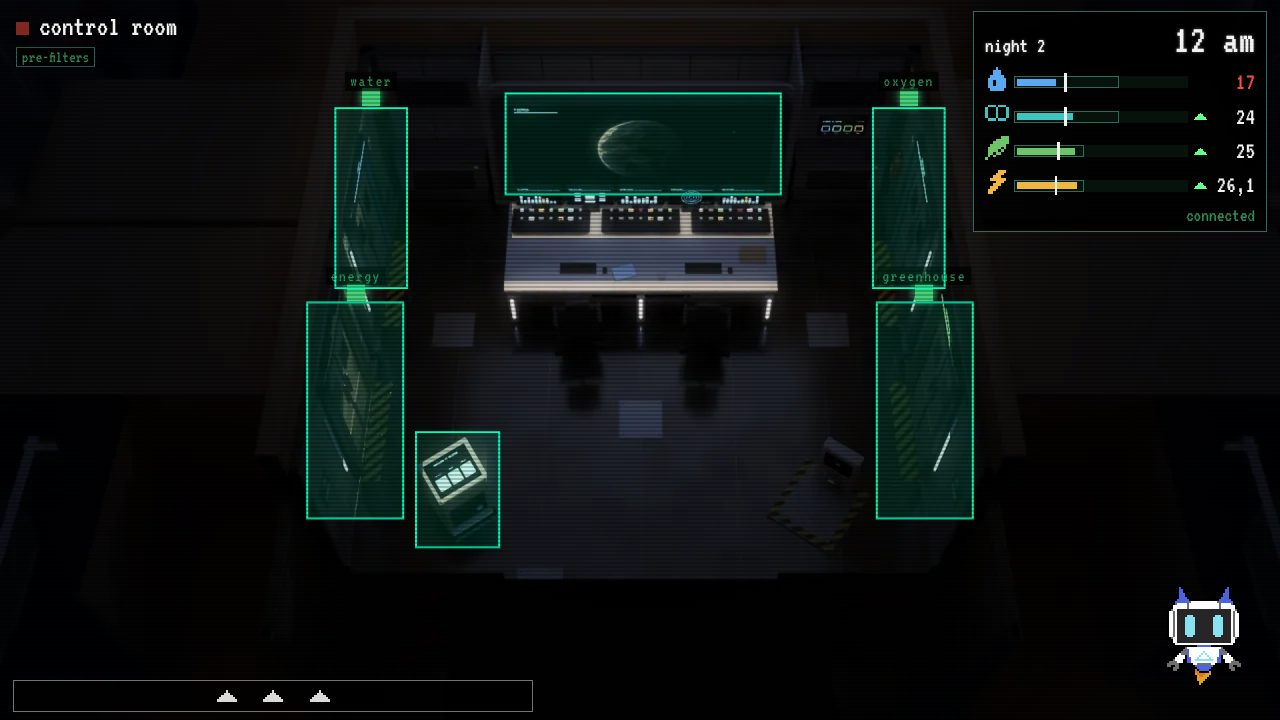
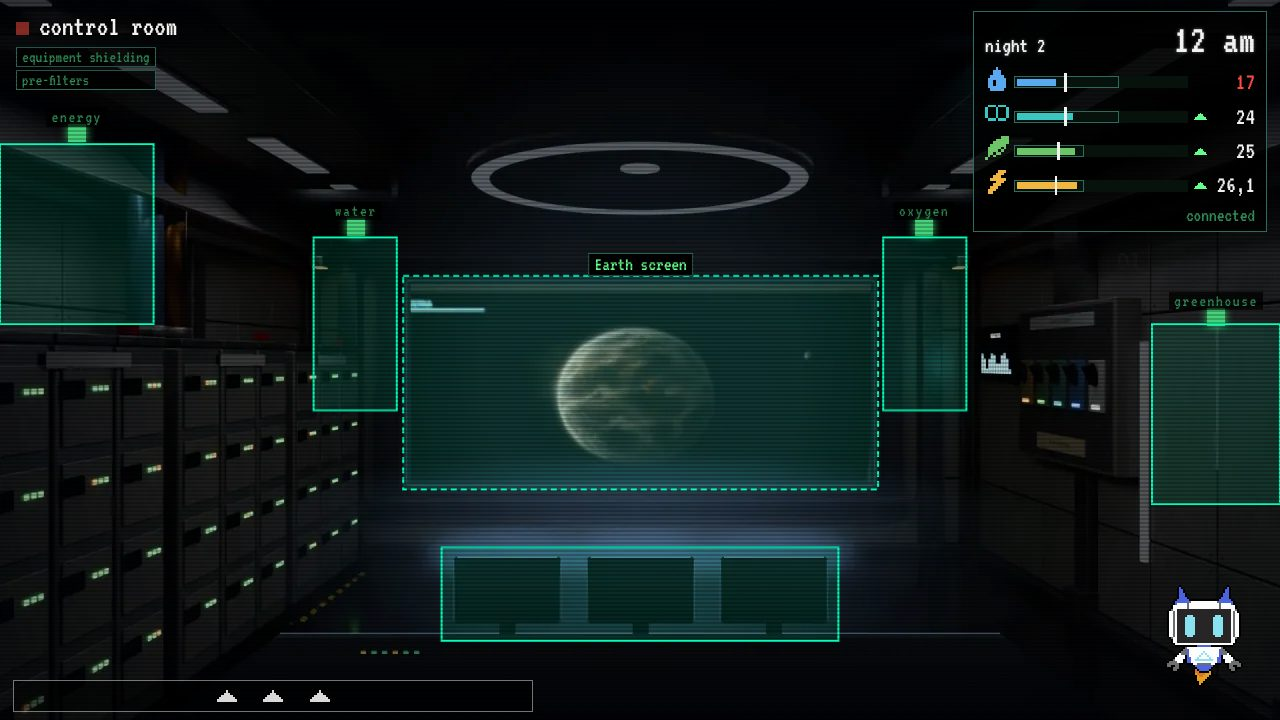
Control de noche vista desde el centro de la sala
No hay render de Control a la altura de los ojos (el equipo solo mandó la vista cenital),
así que make-control-night.mjs parte de la sala de Energía de noche, que tiene la misma
arquitectura y está casi vacía: el ventanal pasa a ser la pantalla con la Tierra, se borran
los carteles de Energía, se pone «01 / SALA DE CONTROL» y se añade la consola en primer plano.
Zonas, puertas y pantalla de la Tierra recolocadas para esta cámara.

Claude-Session: https://claude.ai/code/session_01Ra9uTdqwcs6YSEjAgfRJ5W

diff --git a/docs/renders-preview/check.md b/docs/renders-preview/check.md
@@ -38,7 +38,7 @@
 
 | Sala | Capas | Base de día + capas frente a «completa_dia» (PSNR) | Píxeles distintos | Capas vacías |
 |---|---|---|---|---|
-| C1_CONTROL | hecho a partir del render de día (make-control-night.mjs) | | | |
+| C1_CONTROL | hecho a partir de la sala de Energía de noche (make-control-night.mjs) | | | |
 | C2_AGUA | 6 | 28.7 dB | 3.44 % | 0 |
 | C3_OXIGENO | 6 | 27.5 dB | 4.01 % | 0 |
 | C4_INVERNADERO | 6 | 28.5 dB | 3.67 % | 0 |
